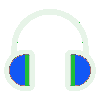
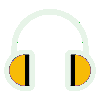
ADD : style

Changed region(s): [[0.69, 0.54, 0.9, 0.87], [0.09, 0.54, 0.3, 0.87]]

diff --git a/src/components/DisplayPodcast/index.tsx b/src/components/DisplayPodcast/index.tsx
@@ -1,29 +1,31 @@
 import React, { useState } from 'react';
 import { Card, Container, Button } from 'react-bootstrap';
-import './DisplayPodcast.css';
-import play from '../../assets/play.png';
+import play from '../../assets/headPhone2.png';
 import ModalAudio from '../ModalAudio';
+import './DisplayPodcast.css';
 
 interface Props {
   image: string;
   title: string;
   src: string;
   resume: string;
+  date: string;
 };
 
-const DisplayPodcast: React.FC<Props> = ({ image, title, resume, src }: Props) => {
+const DisplayPodcast: React.FC<Props> = ({ image, title, resume, src, date }: Props) => {
   const [show, setShow] = useState(false);
   const handleClose = (): void => setShow(false);
   const handleShow = (): void => setShow(true);
   return (
     <Container fluid >
-      <Card style={{ width: '18rem' }} className='DisplayPodcast'>
-        <Card.Img variant='top' src={image} className="poster" />
+      <Card className='displayPodcast'>
+        <Card.Img variant='top' src={image} style={{ height: '27vh' }} />
         <Card.Body>
           <Card.Title>{title}</Card.Title>
-          <Card.Text>{resume}</Card.Text>
+          <Card.Text >{resume}</Card.Text>
           <Button variant='outline-info' onClick={(): void => handleShow()}>
-            <img src={play} alt='play' className='play' />
+            <img src={play} alt='play' className='play' style={{ width: '3rem' }} />
+            <p >{date}</p>
           </Button>
         </Card.Body>
       </Card>

diff --git a/src/components/Home/index.tsx b/src/components/Home/index.tsx
@@ -1,28 +1,27 @@
 import React from "react";
-import DisplayPodcast from "../DisplayPodcast";
 import { Container, Row, Col } from "react-bootstrap";
-import { audioFiles } from "../../data/podcastFiles";
-import Map from "../Map";
+import { Link } from 'react-router-dom';
+import play from '../../assets/play.png';
+import headPhone from "../../assets/headPhone.png";
+import './Home.css';
 
 const Home: React.FC = () => {
+  const renderLogo = (): JSX.Element => {
+    return <img src={headPhone} />
+  }
   return (
-    <Container fluid className="App">
+    <Container fluid className="home">
       <Row>
-        <Col xs={12} xl={6}>
-          {audioFiles.map((podCast, key) => (
-            <DisplayPodcast
-              key={key}
-              image={podCast.img}
-              title={podCast.title}
-              src={podCast.src}
-              resume={podCast.resume}
-            />
-          ))}
-        </Col>
-        <Col xs={12} xl={6}>
-          <Map audioFiles={audioFiles}/>
+        <Col xs={12}>
+          <h1 className="EVCCV">Et v{renderLogo()}us... Comment ça va?</h1>
         </Col>
       </Row>
+      <Col xs={12} className="intro">
+      <h3>Un podcast le confinage blablablabla</h3>
+      <Link to="/podcast" className="blink">
+        <img src={play} className="homePlay" />
+      </Link>
+      </Col>
     </Container>
 
   )

diff --git a/src/components/ModalAudio/index.tsx b/src/components/ModalAudio/index.tsx
@@ -1,6 +1,6 @@
-import React from "react";
-import Player from "../Player";
-import { Card, Modal, Button } from "react-bootstrap";
+import React from 'react';
+import Player from '../Player';
+import { Card, Modal, Button } from 'react-bootstrap';
 
 interface Props {
   image: string;
@@ -13,12 +13,12 @@ const ModalAudio: React.FC<Props> = ({ image, title, src, handleClose, show }: P
   return (
     <Modal show={show} onHide={(): void => handleClose()}>
       <Modal.Header closeButton>
-        <Card.Img variant="top" src={image} />
+        <Card.Img variant='top' src={image} />
       </Modal.Header>
-      <Modal.Title className="modalTitle">{title}</Modal.Title>
+      <Modal.Title className='modalTitle' style={{ textAlign: 'center' }}>{title}</Modal.Title>
       <Player src={src} />
       <Modal.Footer>
-        <Button variant="info" onClick={(): void => handleClose()}>
+        <Button variant='info' onClick={(): void => handleClose()}>
           Close
         </Button>
       </Modal.Footer>

diff --git a/src/components/Podcast/index.tsx b/src/components/Podcast/index.tsx
@@ -1,0 +1,34 @@
+import React from "react";
+import DisplayPodcast from "../DisplayPodcast";
+import { Container, Row, Col } from "react-bootstrap";
+import { audioFiles } from "../../data/podcastFiles";
+import Header from "../Header";
+import Map from "../Map";
+import './Podcast.css'
+
+const Podcast: React.FC = () => {
+  return (
+    <Container fluid className="podcast">
+      <Header />
+      <Row>
+        <Col xs={12} xl={{ span: 4, offset: 1 }}>
+          {audioFiles.map((podCast, key) => (
+            <DisplayPodcast
+              key={key}
+              image={podCast.img}
+              title={podCast.title}
+              src={podCast.src}
+              resume={podCast.resume}
+              date={podCast.date}
+            />
+          ))}
+        </Col>
+        <Col xs={12} xl={6}>
+          <Map audioFiles={audioFiles} />
+        </Col>
+      </Row>
+    </Container>
+
+  )
+}
+export default Podcast;

diff --git a/src/components/Header/index.tsx b/src/components/Header/index.tsx
@@ -1,17 +1,17 @@
 import React from "react";
 import { Container, Row, Col } from "react-bootstrap";
-import headPhone from "../../assets/headPhone.png"
+import headPhone from "../../assets/headPhone2.png"
 import './Header.css'
 
 const Header: React.FC = () => {
   const renderLogo = (): JSX.Element => {
     return <img src={headPhone} style={{ width: "2rem", height: "2rem" }} />
-  }
+  };
   return (
     <Container fluid>
-      <Row className="Header">
+      <Row className="header">
         <Col >
-          <h1 className="EVCCV">Et v{renderLogo()}us... Comment ça va?</h1>
+          <h1 className="headerContent">Et v{renderLogo()}us... Comment ça va?</h1>
         </Col>
       </Row>
     </Container>

diff --git a/src/components/Home/Home.css b/src/components/Home/Home.css
@@ -1,0 +1,43 @@
+.home {
+  background-color: rgb(250, 213, 4);
+  background-size: cover;
+  height: 100vh;
+}
+.homePlay {
+  animation: blink 2s linear infinite;
+  margin: 5rem;
+}
+.intro {
+  text-align: center;
+  font-family: "Comic Neue", cursive;
+  margin-top: 4rem;
+}
+.EVCCV {
+  font-family: "Comic Neue", cursive;
+  text-align: center;
+  font-size: 8vh;
+  margin: 8vh;
+  font-weight: bold;
+}
+@keyframes blink {
+  0% {
+    opacity: 1;
+  }
+  50% {
+    opacity: 0;
+  }
+  100% {
+    opacity: 1;
+  }
+}
+@media screen and (max-width: 640px) {
+  .EVCCV {
+    margin: 1vh;
+  }
+  .intro {
+    margin-top: 1rem;
+  }
+  .homePlay {
+    margin: 2rem;
+  }
+}

diff --git a/src/components/DisplayPodcast/DisplayPodcast.css b/src/components/DisplayPodcast/DisplayPodcast.css
@@ -1,20 +1,21 @@
-/* .DisplayPodcast {
-  margin: 1rem;
+.displayPodcast {
+  margin-left: auto;
+  margin-right: auto;
+  margin: 1vh;
+  width:19vw;
 }
-.poster {
-  height: 17rem;
-  width: 17rem;
-}
-.play {
-  width: 40%;
-  height: 40%;
-}
-.modalTitle {
-  text-align: center;
-  margin: 1rem;
-}
-@media screen and (max-width: 1280px) {
-  .DisplayPodcast {
-    width: 85% !important;
+
+@media screen and (max-width: 1024px) {
+  .displayPodcast {
+    margin:auto;
+    margin-bottom: 2vh;
+    width: 50vw;
   }
-} */
+}
+@media screen and (max-width: 500px) {
+  .displayPodcast {
+    margin:auto;
+    margin-bottom: 2vh;
+    width: 65vw;
+  }
+}

diff --git a/src/data/podcastFiles.tsx b/src/data/podcastFiles.tsx
@@ -6,7 +6,8 @@ export const audioFiles = [
     resume: '"Et vous... comment ça va?" vous propose des temoignages du confinement',
     long: 2.352465,
     lat: 48.932091,
-    address: "St-Denis 93200"
+    address: "St-Denis 93200",
+    date: "20/04/2020"
   },
   {
     src: "https://archive.org/download/BioHazardRadio/PODCAST%201.mp3",
@@ -15,6 +16,7 @@ export const audioFiles = [
     resume: `Bruno, 59 ans, médecin nous raconte son quotidien et ce que l'"épreuve Corrona Virus" lui inspire`,
     long: 3.101394,
     lat: 45.785846,
-    address: "Clermont-Ferrant 63100"
+    address: "Clermont-Ferrant 63100",
+    date: "20/04/2020"
   }
 ];

diff --git a/src/components/Map/Map.css b/src/components/Map/Map.css
@@ -1,23 +1,23 @@
 .leaflet-container {
-  margin: 1rem;
-  height: 70vh;
-  width: 50vw;
-  border-radius: 20%
-};
-/* .play {
+  height: 80vh;
+  width: 90vw;
+  border-radius: 0%;
+  margin: auto;
+}
+.play {
   width: 40%;
   height: 40%;
 }
-
-@media screen and (max-width: 1280px){
+@media screen and (min-width: 1280px) {
   .leaflet-container {
-    height: 80vh;
-    width: 90vw;
-    border-radius: 0%;
-    margin: auto;
-  };
+    position: fixed !important;
+    margin: 1rem;
+    height: 70vh;
+    width: 50vw;
+    border-radius: 20%;
+  }
   .play {
     width: 40%;
     height: 40%;
   }
-} */
+}

diff --git a/src/components/Player/Player.css b/src/components/Player/Player.css
@@ -1,8 +1,22 @@
-/* .audio-player {
-  background-color: rgba(15, 161, 167, 0.4);
-  margin: auto;
+.audio-player {
+  background-color: rgb(250, 213, 4);
+  margin-bottom: 1vh;
+  margin-left: auto;
+  margin-right: auto;
   padding: 0.5rem;
   border: solid 1px;
   border-radius: 2vw;
   box-shadow: 1px 1px 1px rgba(15, 161, 167, 0.4);
-} */
+  width: 15rem;
+}
+.player-img {
+  height: 3em !important;
+}
+@media screen and (max-width: 640px) {
+  .audio-player {
+    width: 15rem !important;
+  }
+  .player-img {
+    height: 3em !important;
+  }
+}

diff --git a/src/App.tsx b/src/App.tsx
@@ -1,15 +1,15 @@
 import React from "react";
 import { Switch, Route } from "react-router-dom";
-import Header from "./components/Header";
 import Home from "./components/Home"
+import Podcast from "./components/Podcast"
 import './App.css'
 
 const App: React.FC = () => {
   return (
     <>
-      <Header />
       <Switch>
         <Route exact path="/" component={Home} />
+        <Route path="/podcast" component={Podcast} />
       </Switch>
     </>
   );

diff --git a/src/components/Header/Header.css b/src/components/Header/Header.css
@@ -1,9 +1,11 @@
-.Header {
-  background-color: rgb(64, 59, 88);
+.header {
+  background-color: rgb(250, 213, 4);
+  margin-bottom: 3rem;
 }
-.EVCCV {
+.headerContent {
   font-family: "Comic Neue", cursive;
-  color: white;
+  color: black;
   font-size: 2rem;
   padding: 1rem;
+  text-align: center;
 }
